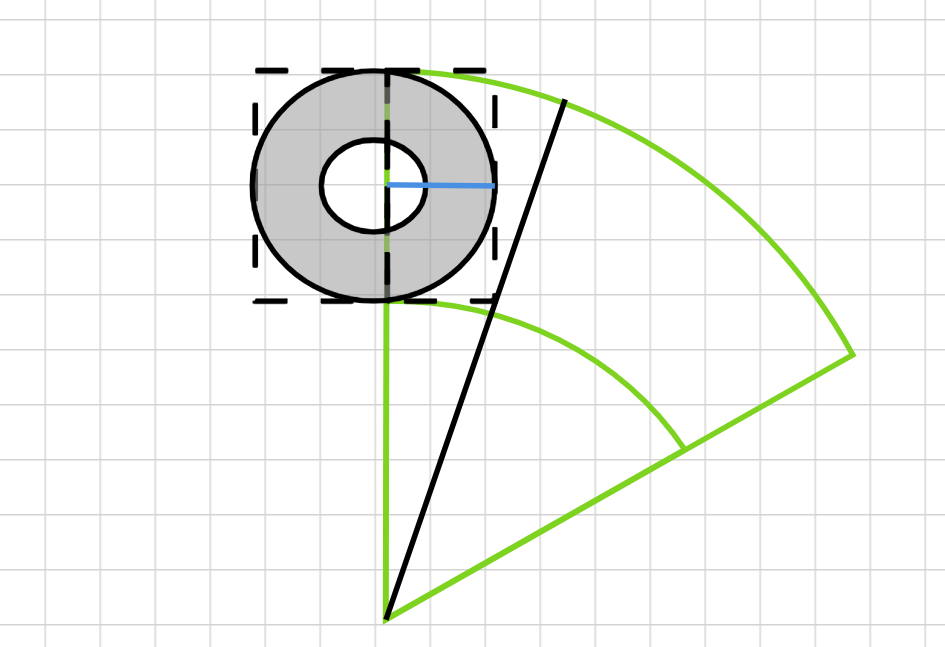
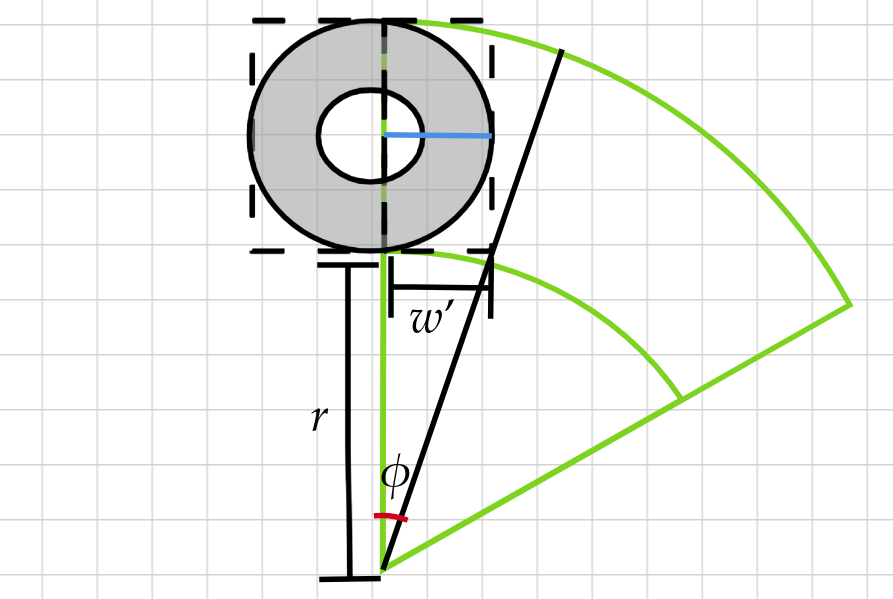
update

diff --git a/_posts/2023-08-21-coding-letters-on-a-path.md b/_posts/2023-08-21-coding-letters-on-a-path.md
@@ -138,7 +138,9 @@ This definition can be best explained with the diagram below, where the two comp
 The angle $\phi$ is not accumulated in the definition of $\theta_j$ because it must be added just one time per circled section, since $\phi$ represents the *starting angle* when the circled section begins. This comes from the fact that, during a straight section, we know the current section's distance is covered and the section type must change when the **distance** between current position plus $\Delta_p \times 0.5$ and the starting coordinate of the current section is **bigger than** the reference masure known as $g$. Therefore, in the last iteration of a straight section, if $\Delta_p \times 0.5$ fits, which means if half a letter fits, we place it as the last letter of that straight section. That means, there exists always a possibility that the straight sections exceed the ideal $g$ by pixels of *half a letter of less*. Thus, if we were to start each circled sections initial $\theta_i$ as 0, the first letter of a circled section would possibly overlap the last staright sections letter by pixels of *half a letter of less*. This originated the need for a starting angle known as $\phi$, in order to calculate the starting angle by knowing how much did the last letter of the previous straight section exceeded $g$. We can now define $\phi$ as
 
 $$
-\phi = |tan^{-1}\left(\frac{\hbox{remaining width} - g_x}{height_i}\right)|
+\phi = |tan^{-1}\left(\frac{\hbox{remaining width}}{height_i}\right)|
 $$
 
-where $g_x$ is the measure $g$ but in horizontal cases (in case there is a discrepancy between vertical ones, but should be the same in both cases).
+And graphically, its represented as
+
+![img]({{site.url}}/img/12/11.png)
